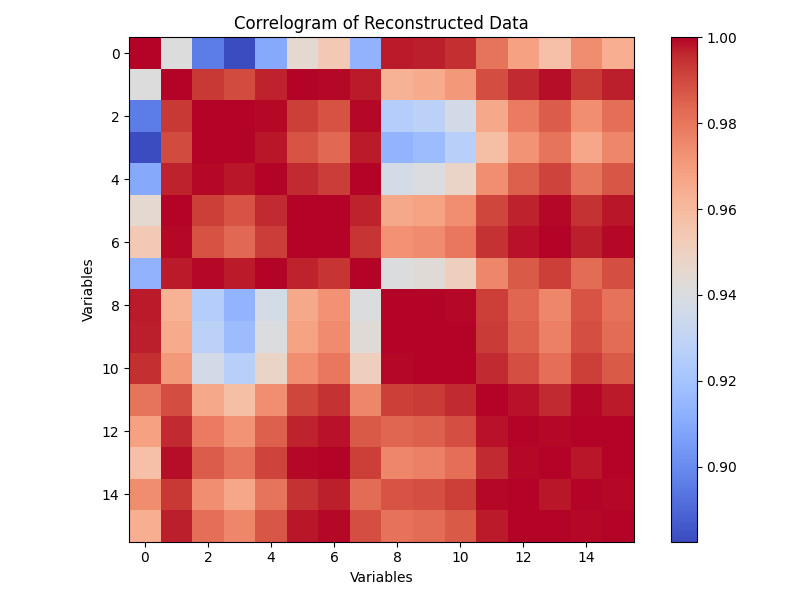
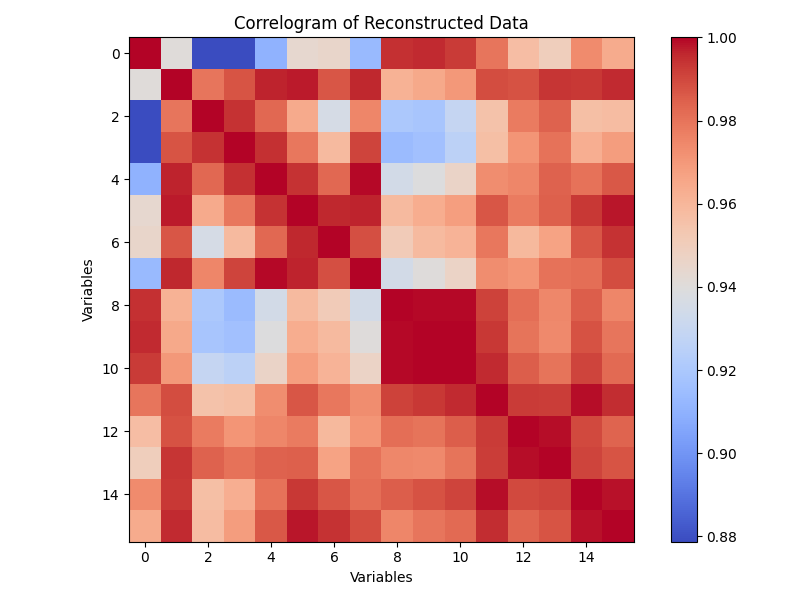
Fixed some minor errors in main_window

diff --git a/src/py2dcos/gui/main_window.py b/src/py2dcos/gui/main_window.py
@@ -687,8 +687,7 @@ class MainWindow(QMainWindow):
             self.correlation_model = self.controller.build_model(self.filename1, self.filename2, self.status)
             if self.correlation_model:
                 self.plotter = CorrelationPlotter(model = self.correlation_model, figure = self.figure, canvas = self.canvas)
-                self.plotter.plot(canvas=True, **plot_status)
-                # self.correlation_model.plot(figure = self.figure, canvas=True, **plot_status)
+                self.plotter.plot(**plot_status)
                 self.plot_ready = True
                 logging.info("Plot generated succesfully.")
 

diff --git a/src/py2dcos/core/correlation_model.py b/src/py2dcos/core/correlation_model.py
@@ -2,7 +2,6 @@ from __future__ import annotations
 
 from py2dcos.core.correlation import TwoDCorrelation
 from py2dcos.core.io import reader, checkHeader
-from py2dcos.plotting.correlation_plot import CorrelationPlotter
 from py2dcos.core.preprocessing import PCAProcessor
 from py2dcos.core.filters import apply_gaussian_filter, apply_node_attenuation
 